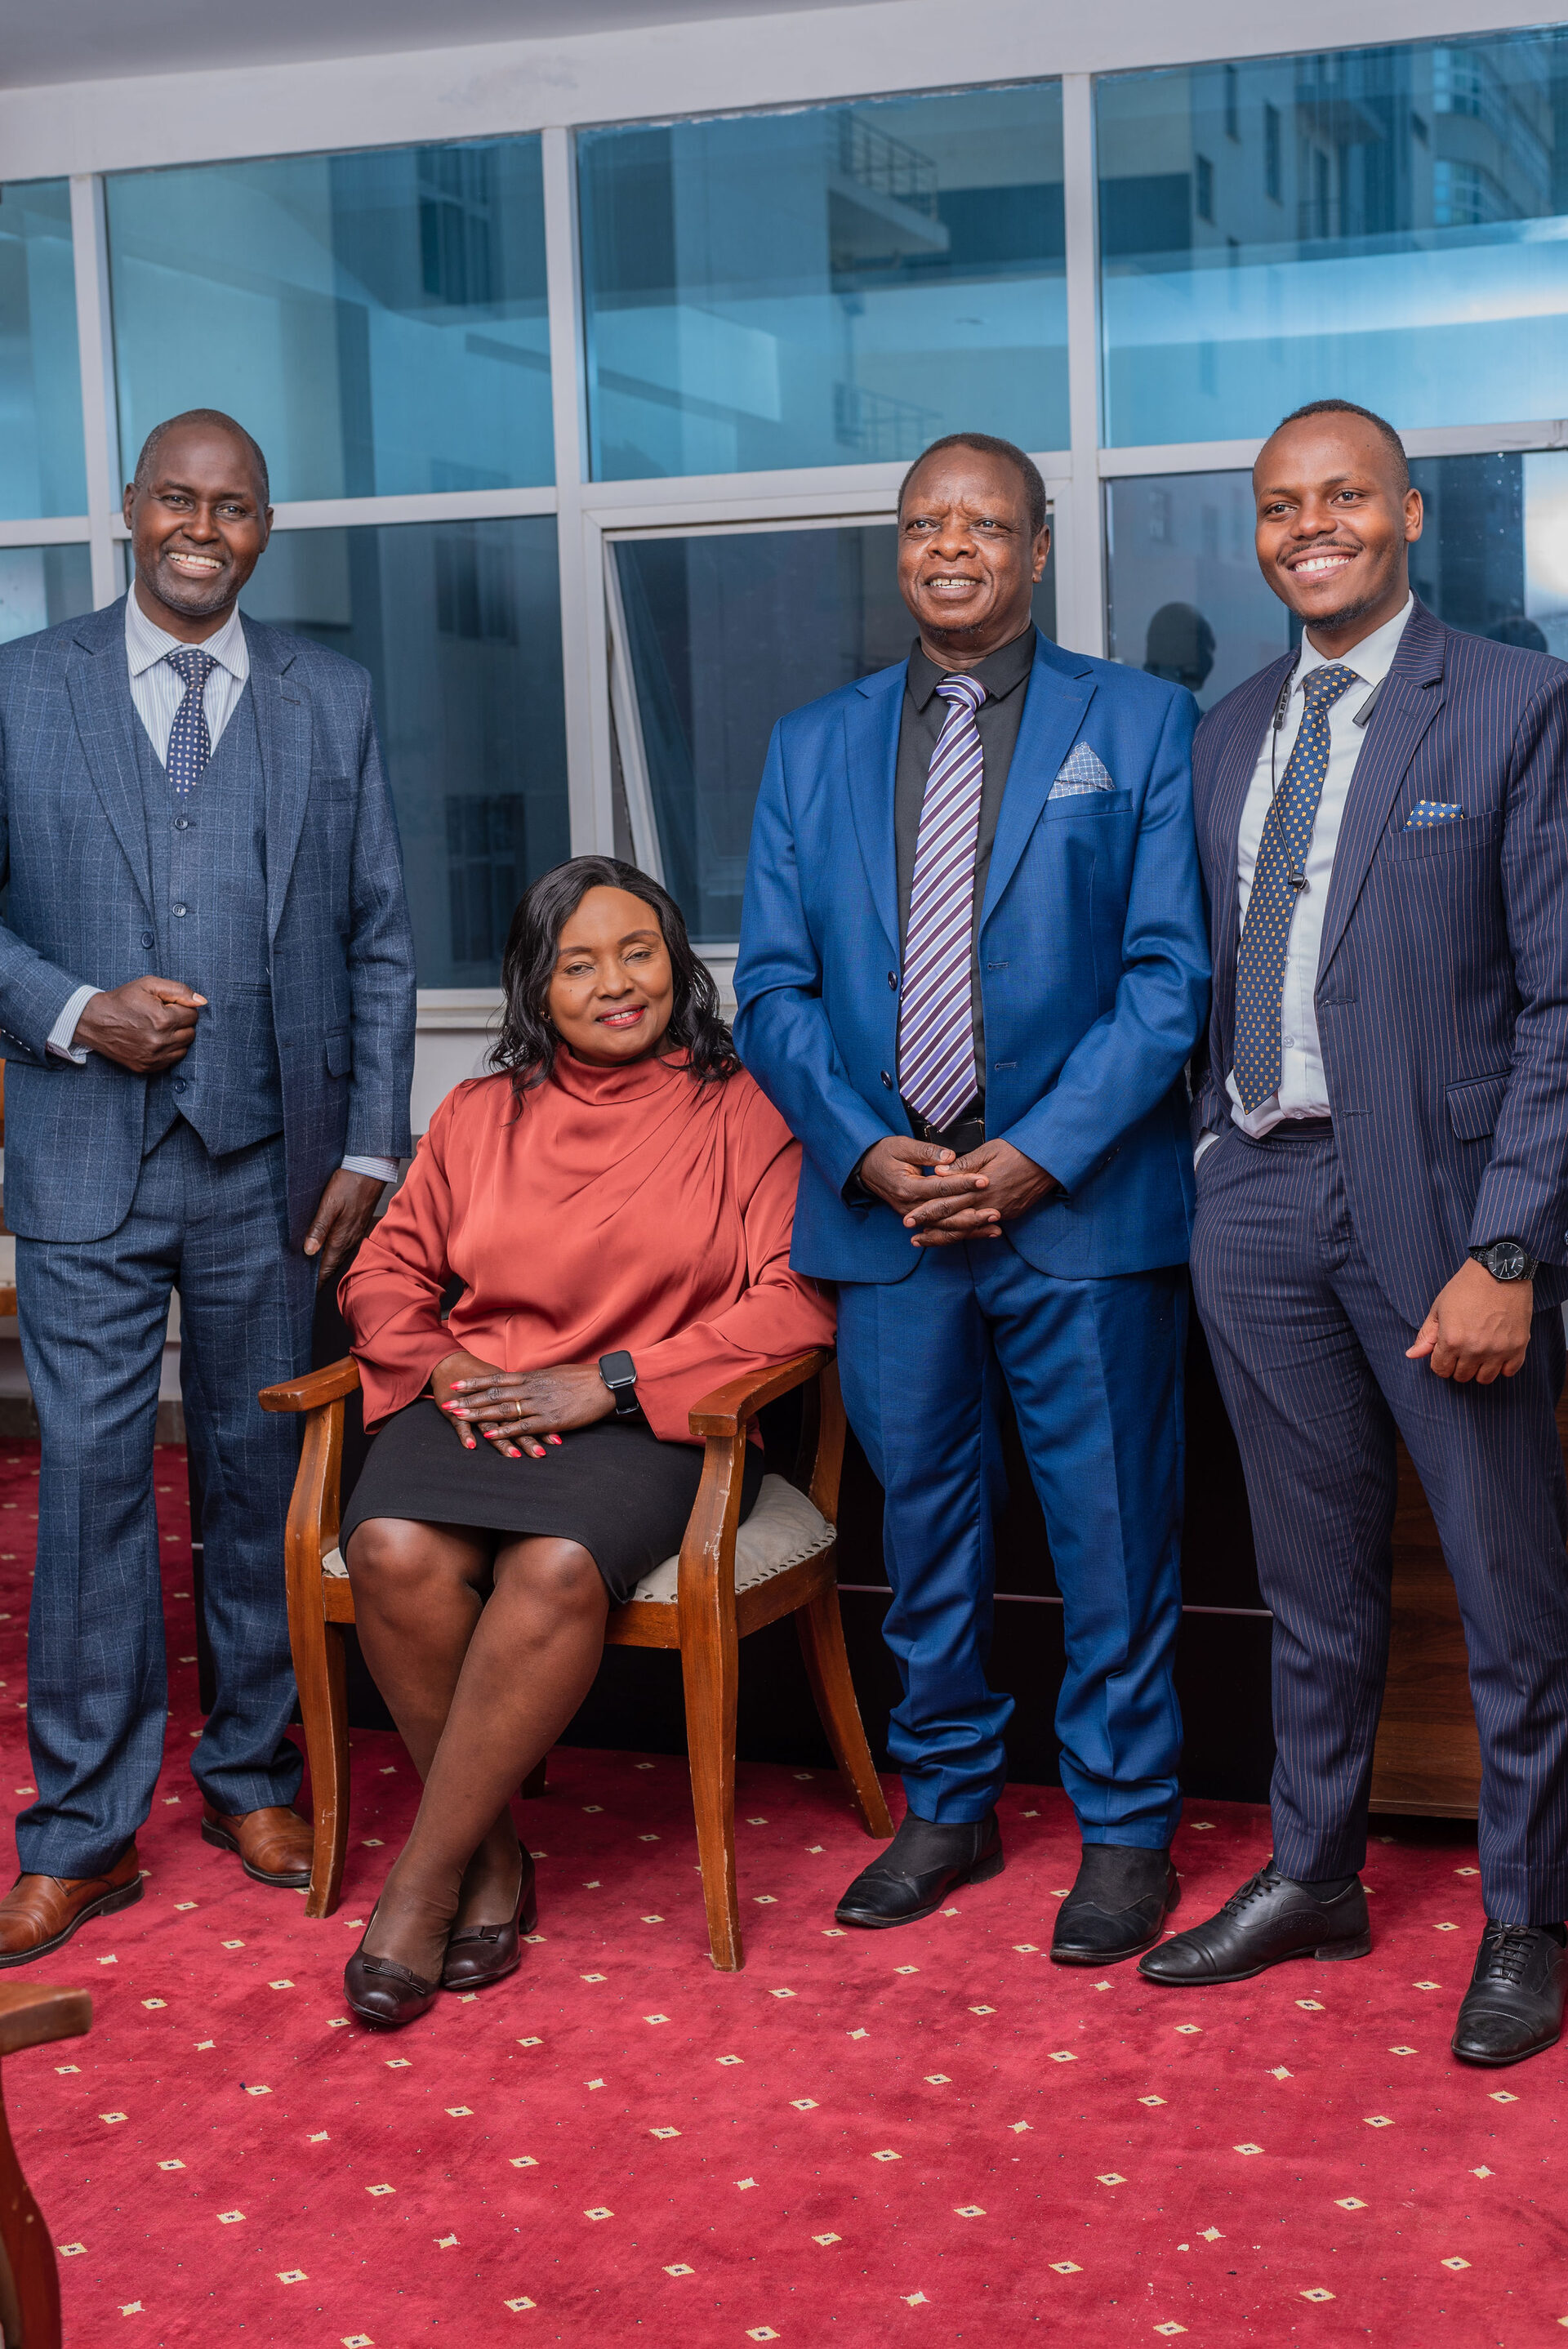
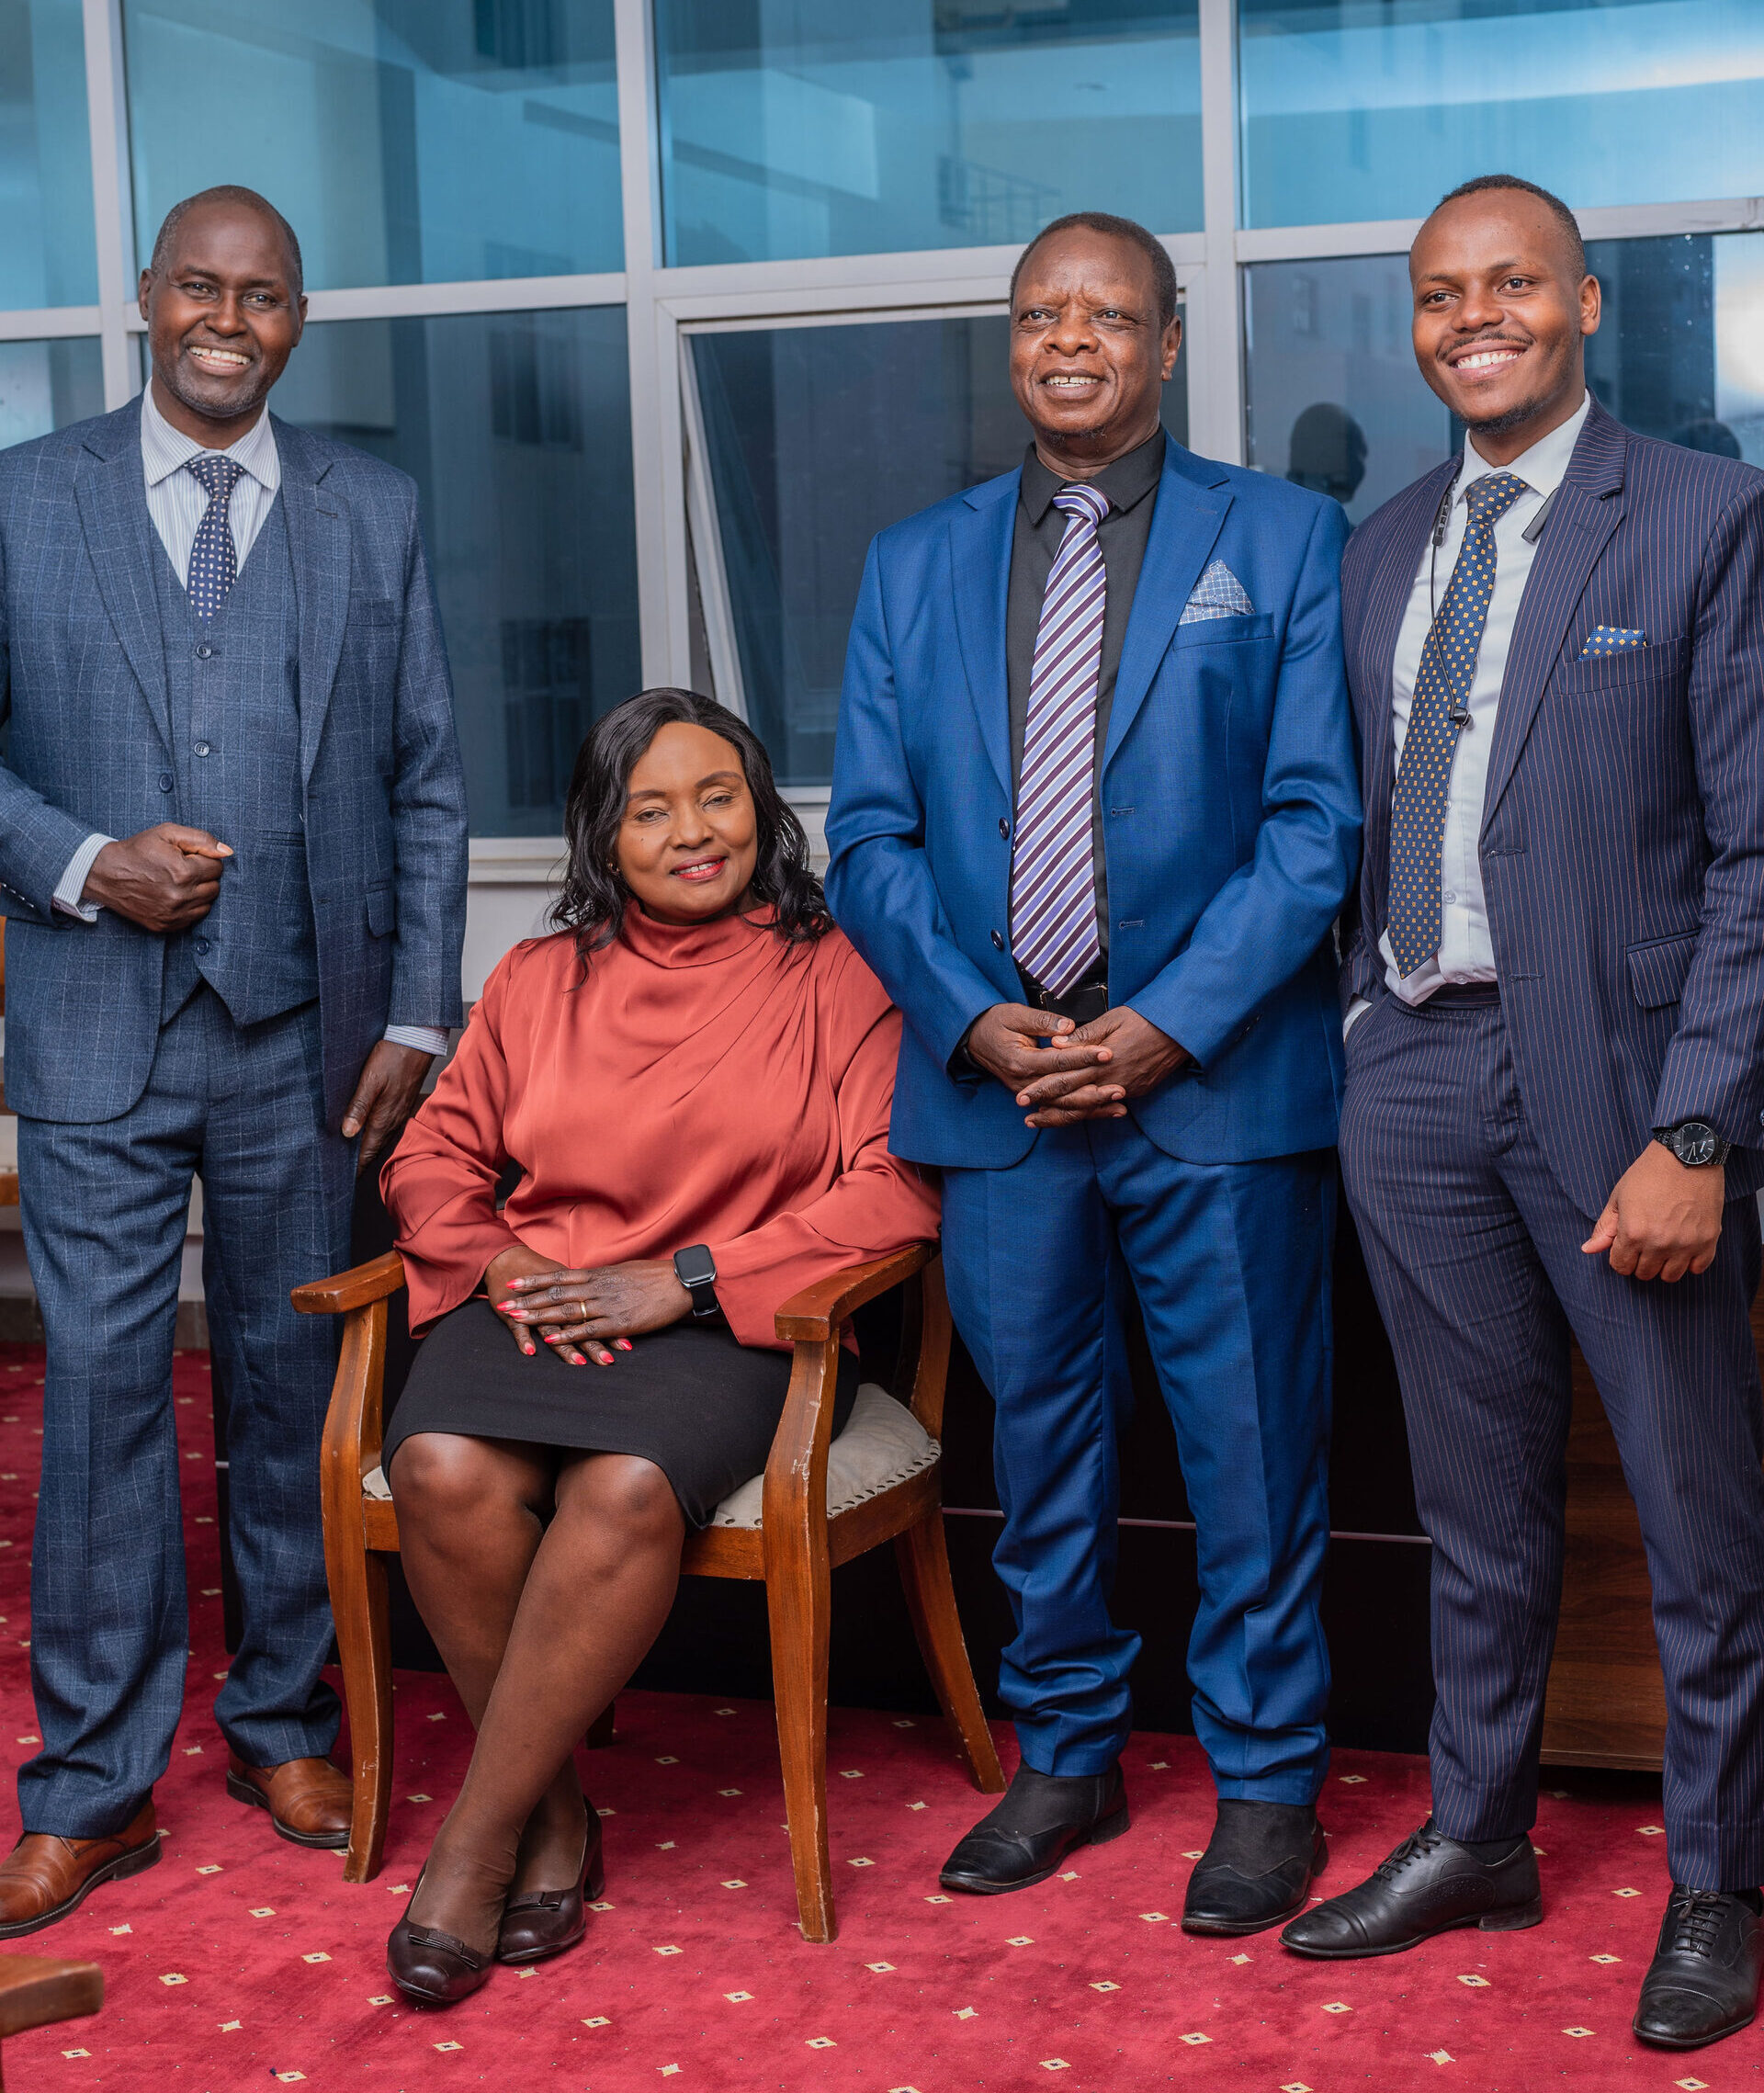
fix: crop hero images to container ratio so they fill section with no padding (CS + About)

diff --git a/wp-content/themes/royal-associates-shepherd/includes/customer_stories_sections.php b/wp-content/themes/royal-associates-shepherd/includes/customer_stories_sections.php
@@ -54,7 +54,7 @@ function cs_render_hero(): void
     </div>
     <div class="hero-grid-visual">
       <div id="cs-hero" class="u-visual" style="background-color:#2A2D8A">
-        <img src="/assets/images/hero-images/stories.jpg" alt="Royal Associates clients" loading="lazy" style="width:100%;height:100%;object-fit:contain;object-position:center" class="u-visual-image">
+        <img src="/assets/images/hero-images/stories.jpg" alt="Royal Associates clients" loading="lazy" style="width:100%;height:100%;object-fit:cover" class="u-visual-image">
         <div class="u-visual-bk"></div>
         <div class="img-overlay"></div>
       </div>